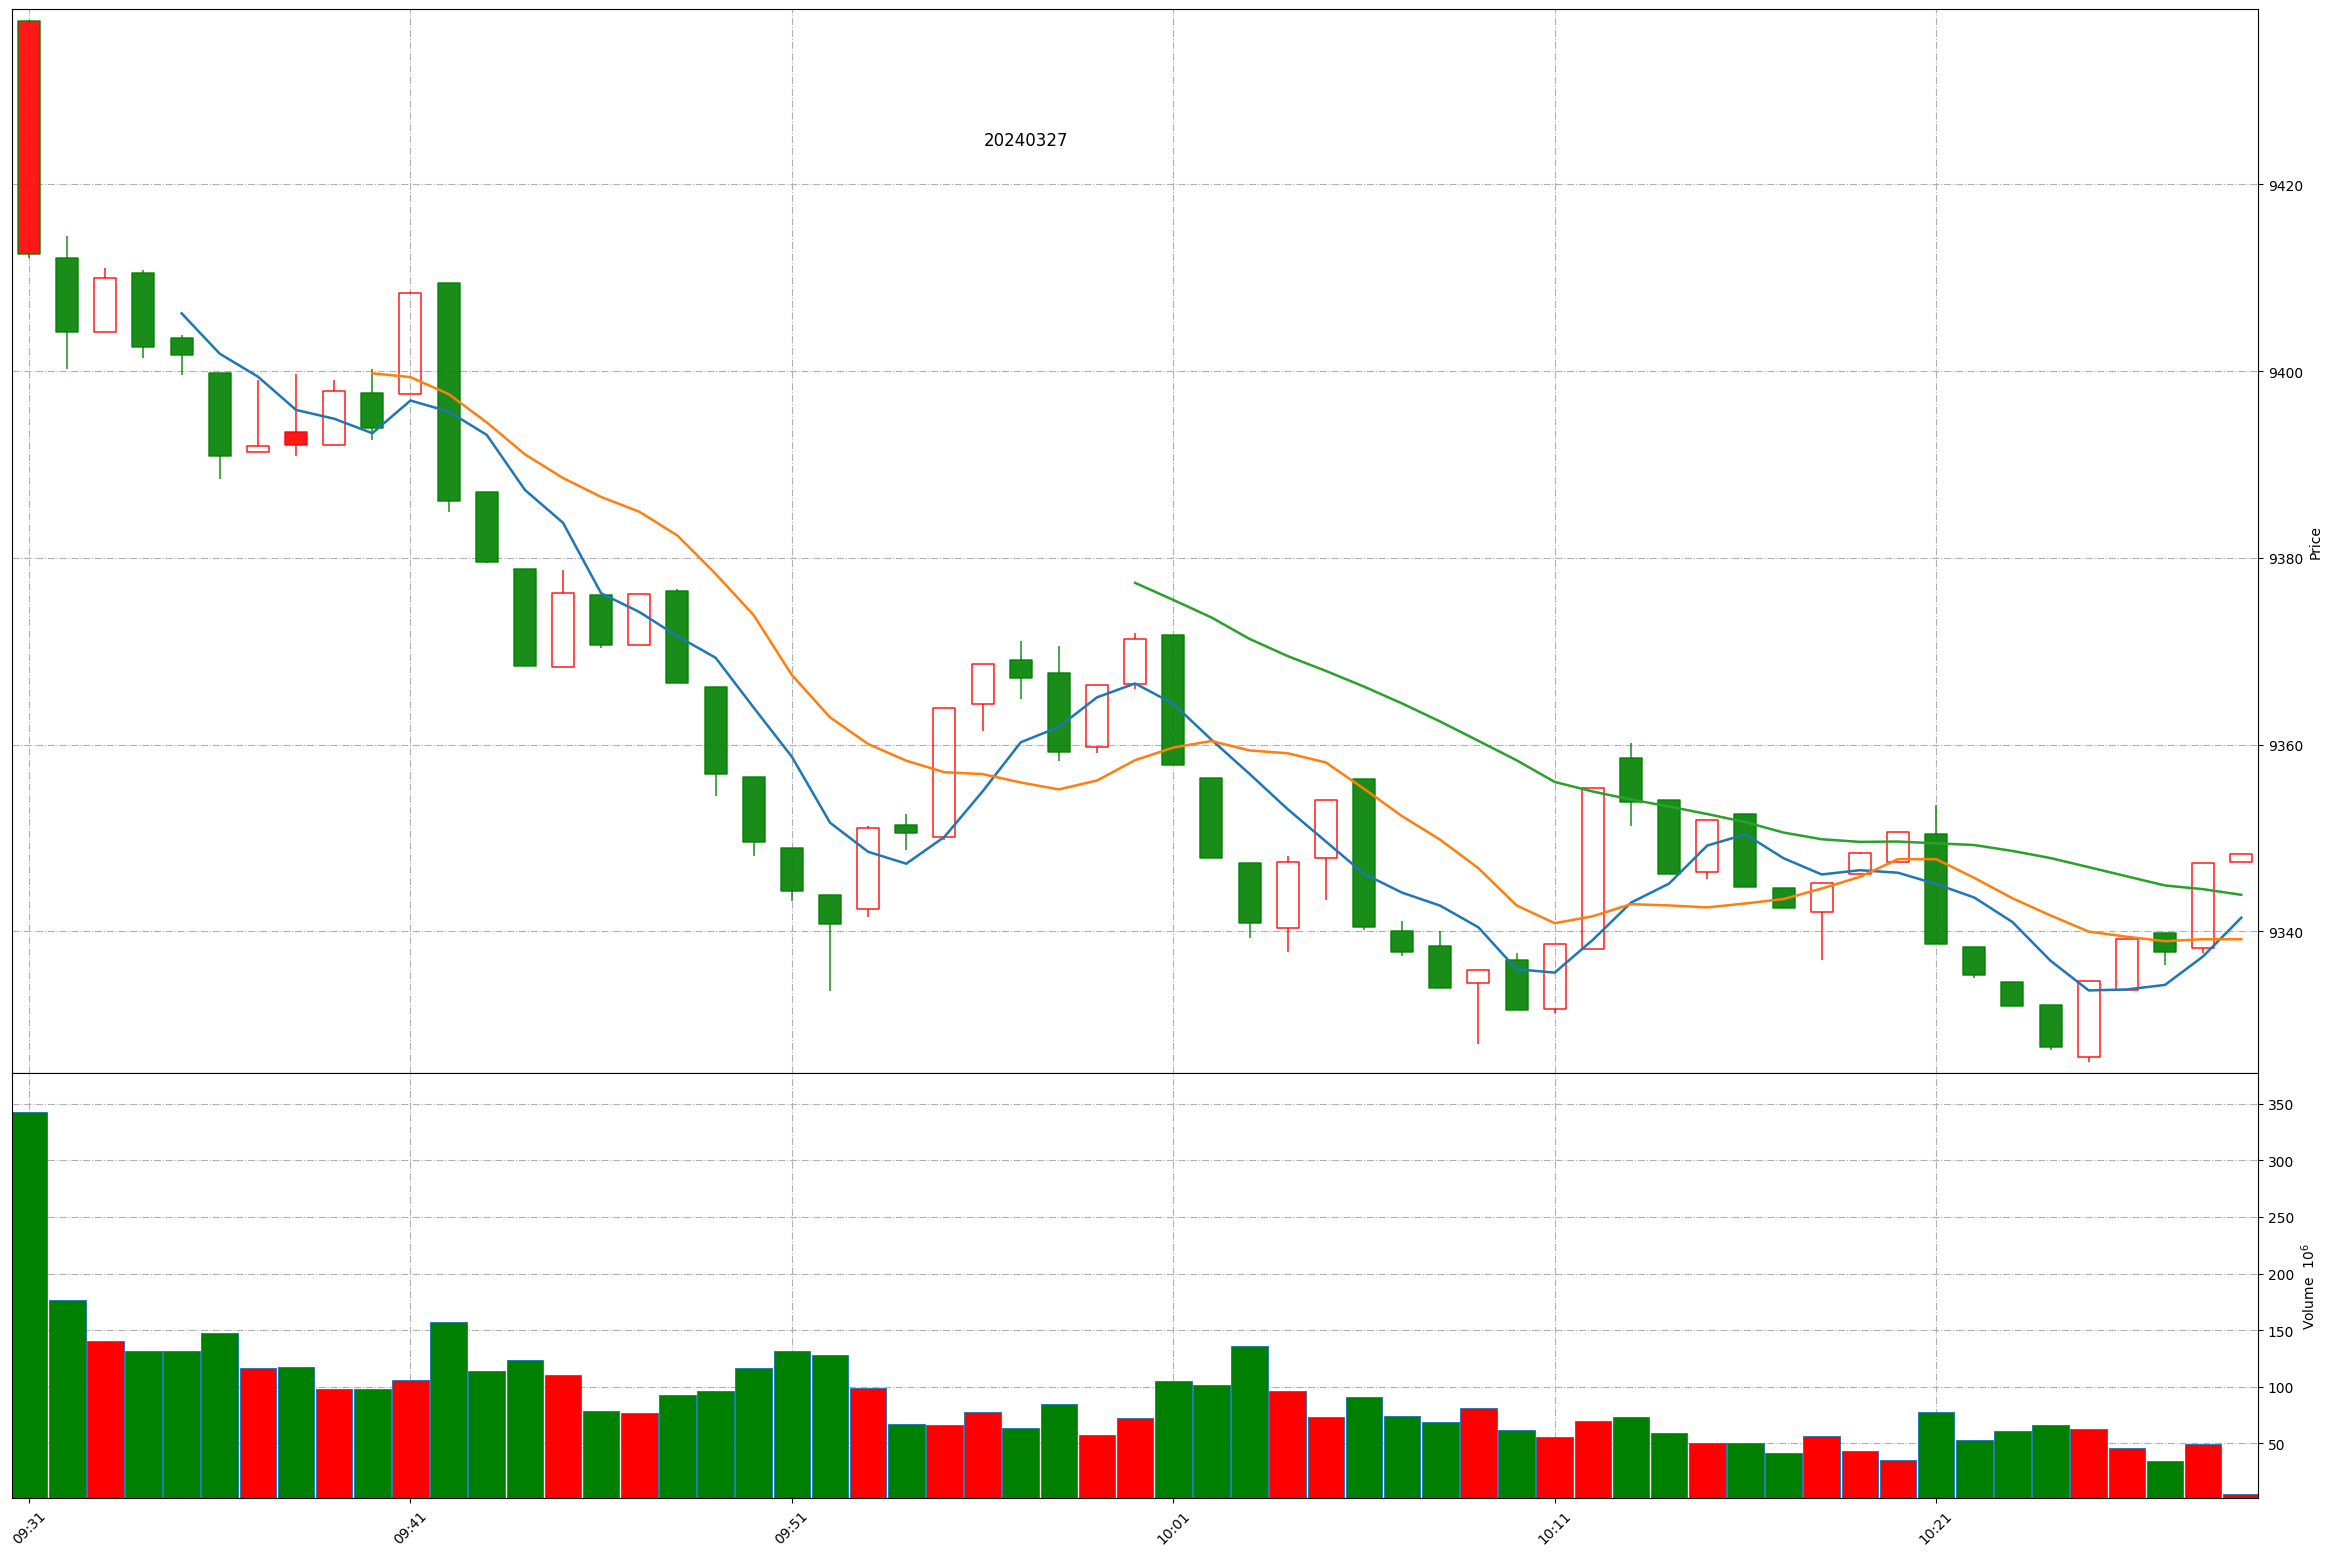
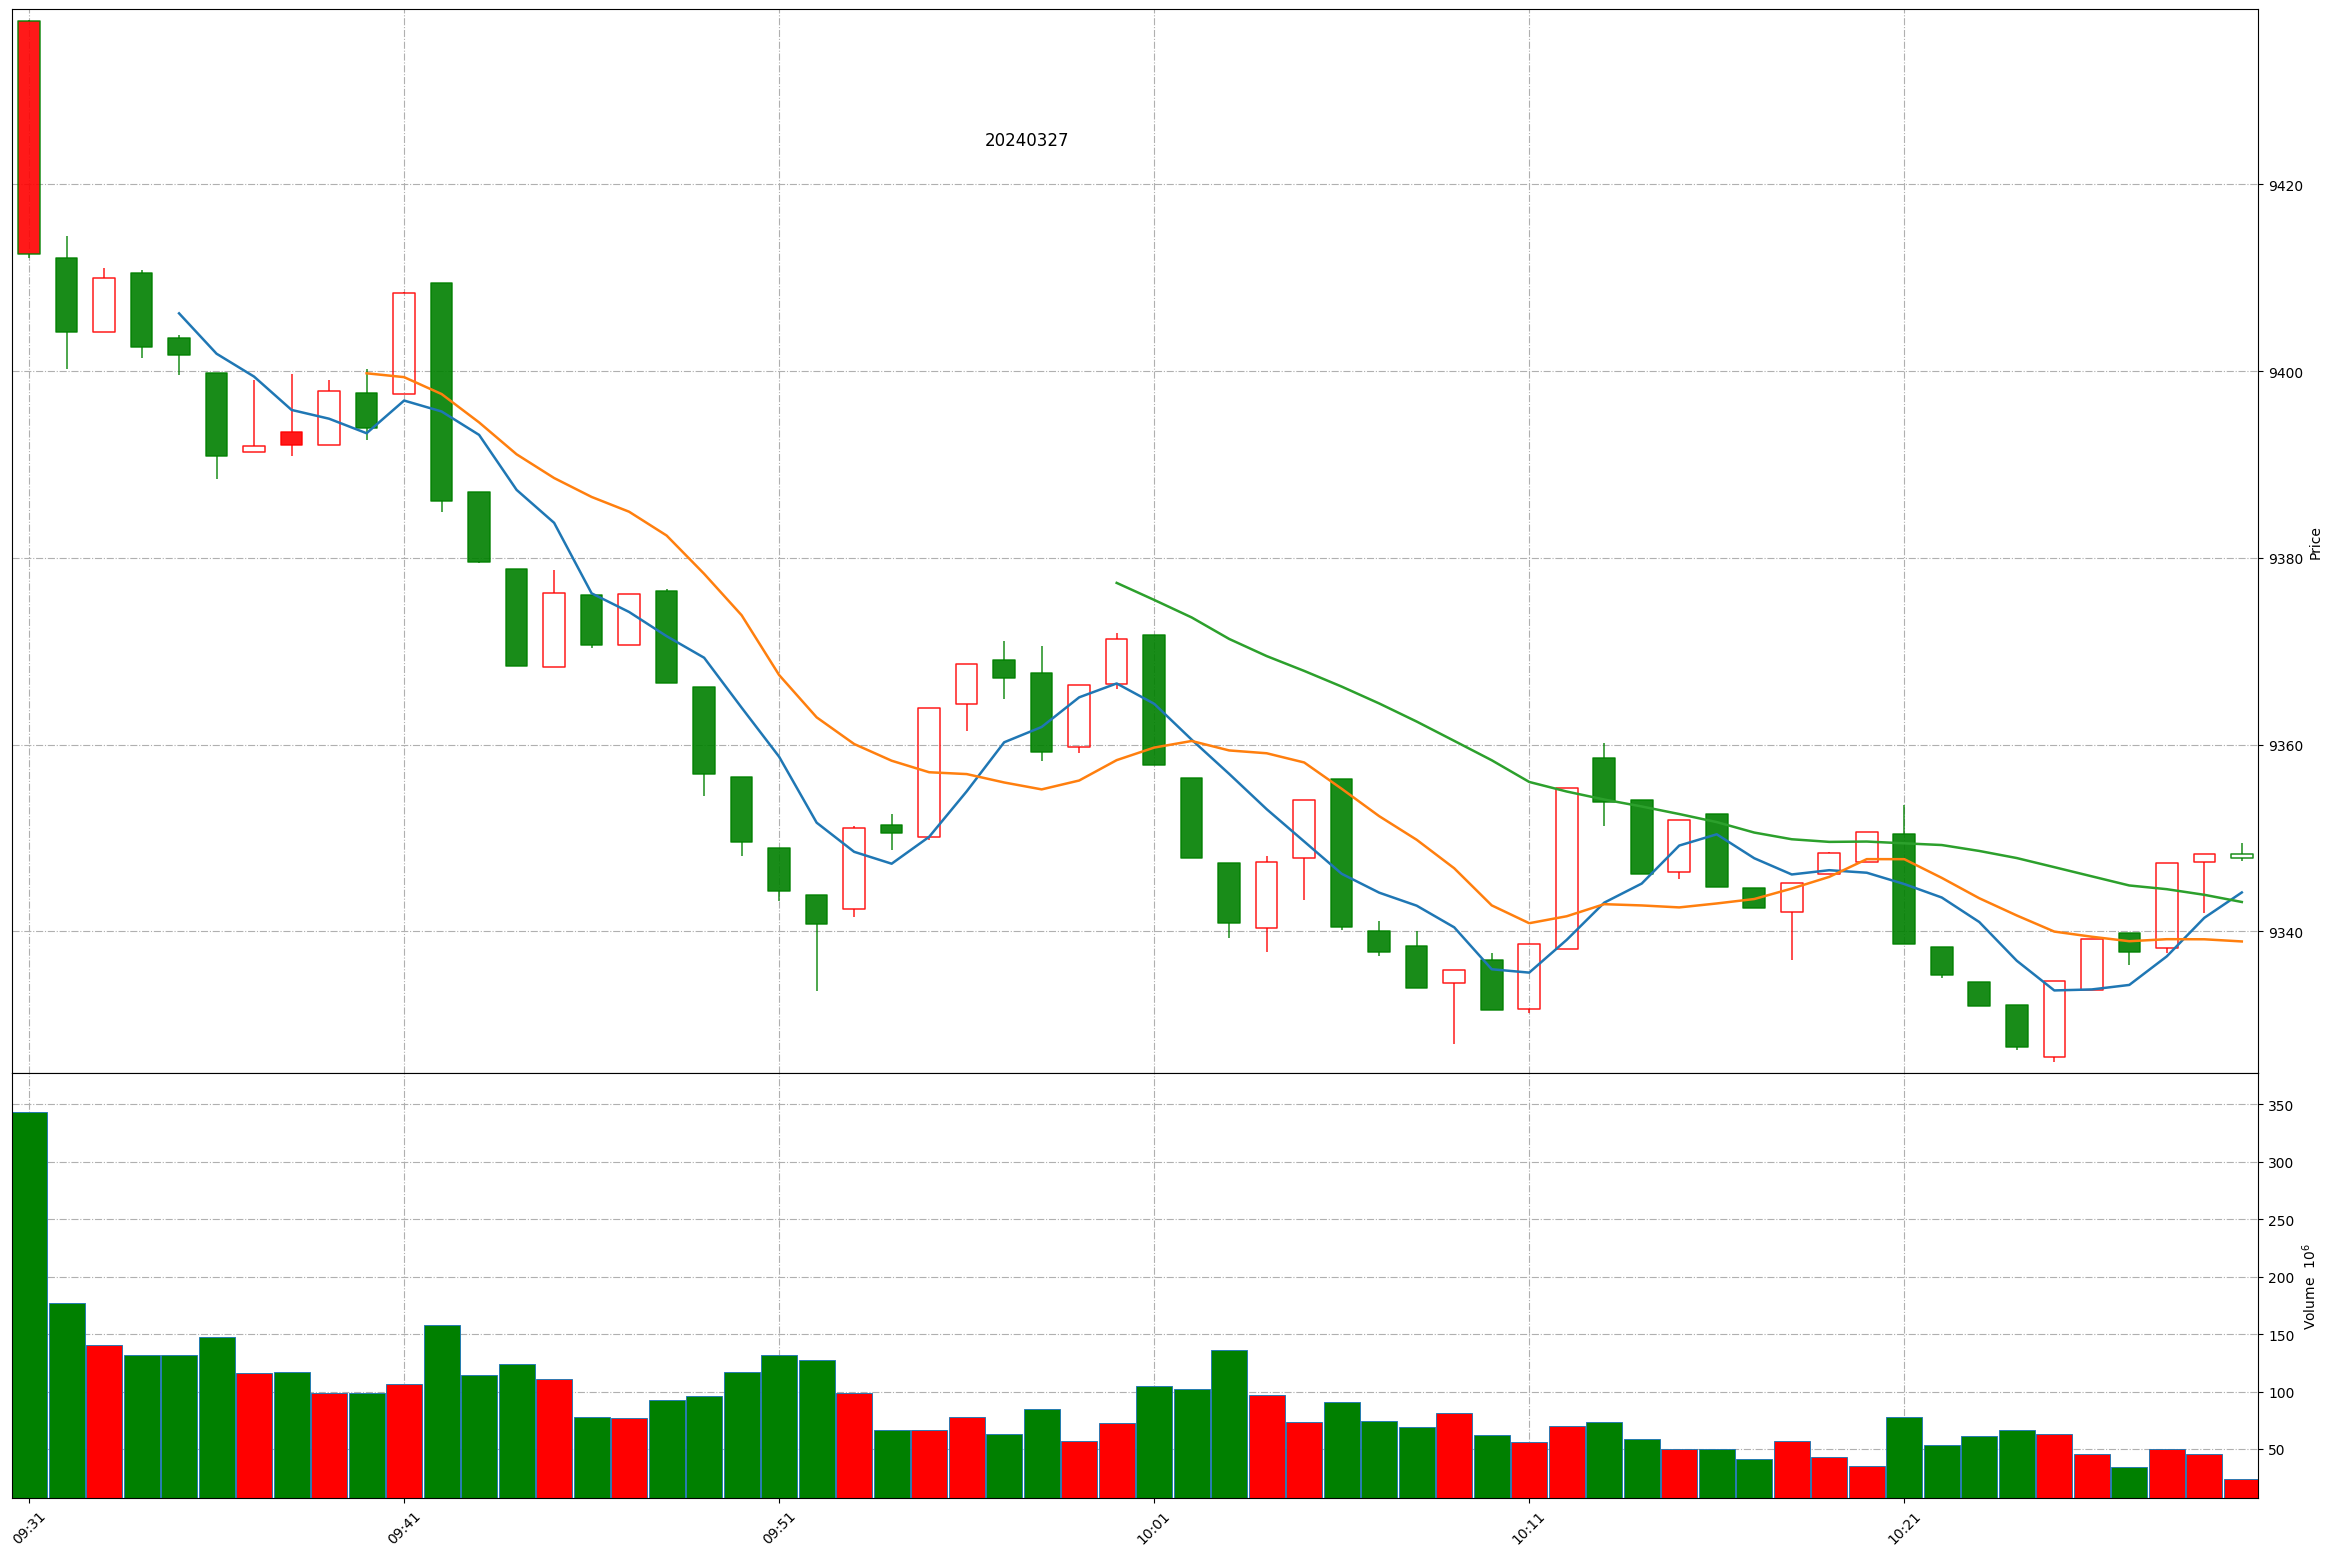
Github action update at 2024-03-27 10:29:51.

diff --git a/README.md b/README.md
@@ -1,11 +1,11 @@
 
 # Daily-A-share-market-quotes 每日 A 股指数（5min 更新）- 20240327
 
-### 上证指数 20240327 10:28
+### 上证指数 20240327 10:29
 ![](./fig/2024/3/20240327-sh000001.png)
 
-### 深证成指 20240327 10:28
+### 深证成指 20240327 10:29
 ![](./fig/2024/3/20240327-sz399001.png)
 
-### 北证50 20240327 10:28
+### 北证50 20240327 10:29
 ![](./fig/2024/3/20240327-bj899050.png)
